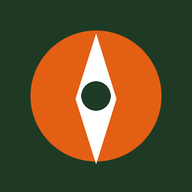
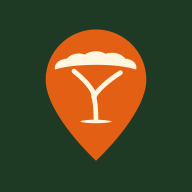
Rebrand the app as Reba
- New name "Reba" (Kinyarwanda for "look!") with "Akagera" as descriptor
- New logo: orange map pin with an acacia cut-out; icons, favicon, share image
- Splash screen (Murakaza neza), two-line header, brand colour tokens
- Levels: Newcomer, Spotter, Tracker, Ranger, Head Ranger
- Gerayo amahoro on arrival; Reba! on nearby sightings
- Open Graph tags for invite link previews
- Unofficial / not affiliated notice in Settings, README and share image

Claude-Session: https://claude.ai/code/session_01EEQYwibPE2FKtUMdtegsvq

Changed region(s): [[0.1562, 0.125, 0.8438, 0.8438]]

diff --git a/app.js b/app.js
@@ -1,4 +1,4 @@
-/* Akagera Live: sightings, road conditions and GPS navigation for Akagera National Park.
+/* Reba: sightings, road conditions and GPS navigation for Akagera National Park.
    Map data: OpenStreetMap contributors (ODbL) and the park entrance board. Weather: Open-Meteo. */
 "use strict";
 
@@ -1361,7 +1361,7 @@ function navUpdate(){
   const wb=$('navWarn');if(w){wb.hidden=false;wb.textContent=`${RD[w.r.type][2]} ${RD[w.r.type][1]} in ${fmtD(w.ahead)}`;if(!N.spoken['w'+w.r.id]&&w.ahead<600){N.spoken['w'+w.r.id]=1;say(`Caution. ${RD[w.r.type][1]} reported ahead.`);}}else wb.hidden=true;
   // voice prompts
   const key=R.instr.indexOf(next);
-  if(next.type==='arrive'){if(dist<30&&!N.spoken.arr){N.spoken.arr=1;say(`You have arrived at ${R.destName}.`);setTimeout(()=>{endNav(true);toast(`Arrived at ${R.destName}.`);},4000);}}
+  if(next.type==='arrive'){if(dist<30&&!N.spoken.arr){N.spoken.arr=1;say(`You have arrived at ${R.destName}.`);setTimeout(()=>{endNav(true);toast(`Arrived at ${R.destName}. Gerayo amahoro! 🌿`,null,null,6000);},4000);}}
   else if(next.type!=='waypoint'){const t=instrText(next);
     if(dist<600&&dist>250&&!N.spoken[key+'f']){N.spoken[key+'f']=1;say(`In ${fmtD(Math.round(dist/50)*50)}, ${t.toLowerCase()}.`);}
     if(dist<=90&&!N.spoken[key+'n']){N.spoken[key+'n']=1;say(t+'.');}}
@@ -1990,8 +1990,8 @@ async function shareOrCopy(data){
 function shareInvite(code){if(code)return openInvite(code);return shareInviteOld(null);}
 function shareInviteOld(code){
   const url=code?`${appURL()}?join=${code}`:`${appURL()}?board=1`;
-  const text=code?`Join my Akagera Live leaderboard "${groupName(code)}" 🏆 Open the link, or enter code ${code} under Animals → Board.`:`Join the Akagera Live leaderboard 🏆 Spot, report and verify animals in Akagera National Park and climb the board.`;
-  shareOrCopy({title:'Akagera Live leaderboard',text,url});
+  const text=code?`Join my Reba leaderboard "${groupName(code)}" 🏆 Open the link, or enter code ${code} under Animals → Board.`:`Join the Reba leaderboard 🏆 Spot, report and verify animals in Akagera National Park and climb the board.`;
+  shareOrCopy({title:'Reba leaderboard',text,url});
 }
 /* score card image, shared as a picture */
 function drawScoreCard(){
@@ -2005,7 +2005,7 @@ function drawScoreCard(){
   // shrink the font until the line fits the card
   const T=(t,x,y,font,col,al='center')=>{let f=font.replace(/Barlow,sans-serif|Barlow,.*$/,TX);g.font=f;let px=+(/(\d+)px/.exec(f)||[0,40])[1];
     while(g.measureText(t).width>980&&px>18){px-=2;f=f.replace(/\d+px/,px+'px');g.font=f;}g.fillStyle=col;g.textAlign=al;g.textBaseline='alphabetic';g.fillText(t,x,y);};
-  T('AKAGERA LIVE',540,110,'700 44px Barlow,sans-serif','#F7C75A');T('Safari leaderboard',540,160,'500 34px Barlow,sans-serif','rgba(255,255,255,.75)');
+  T('REBA',540,110,'700 52px Barlow,sans-serif','#F7C75A');T('Akagera safari leaderboard',540,160,'500 34px Barlow,sans-serif','rgba(255,255,255,.75)');
   T(me.emoji,540,330,`150px ${EM}`,'#fff');T(me.name,540,430,'800 72px Barlow,sans-serif','#fff');T(sc.lv[1].toUpperCase(),540,490,'700 38px Barlow,sans-serif','#9FD3A9');
   T(String(st.pts),540,660,'800 190px Barlow,sans-serif','#F7C75A');T('points',540,720,'600 44px Barlow,sans-serif','rgba(255,255,255,.85)');
   const lines=[];if(park&&park.week)lines.push(`#${park.rank} this week on the park board`);if(grp&&grp.week)lines.push(`#${grp.rank} this week in ${groupName(LB.scope)}`);
@@ -2020,13 +2020,13 @@ function drawScoreCard(){
 }
 function openScoreCard(){
   const c=drawScoreCard();const img=el('img',{class:'scoreimg',alt:'Your score card',src:c.toDataURL('image/png')});
-  let file=null;c.toBlob(b=>{if(b)file=new File([b],'akagera-score.png',{type:'image/png'});},'image/png');
+  let file=null;c.toBlob(b=>{if(b)file=new File([b],'reba-score.png',{type:'image/png'});},'image/png');
   const st=myStats(),park=LB.joined?lbSorted('park','week').find(r=>r.me):null;
-  const text=`🦁 ${st.pts} points on Akagera Live${park&&park.week?`, #${park.rank} on the park board this week`:''}. ${st.n} animals ticked, ${st.ver} sightings verified. Can you beat me?`;
+  const text=`🦁 ${st.pts} points on Reba${park&&park.week?`, #${park.rank} on the park board this week`:''}. ${st.n} animals ticked, ${st.ver} sightings verified. Can you beat me?`;
   const url=LB.scope!=='park'?`${appURL()}?join=${LB.scope}`:`${appURL()}?board=1`;
   openSheet('Share my score',[img,
-    el('button',{class:'primary green',type:'button',onclick:async()=>{try{if(file&&navigator.canShare&&navigator.canShare({files:[file]})){await navigator.share({files:[file],text:text+' '+url,title:'Akagera Live'});return;}}catch(e){if(e&&e.name==='AbortError')return;}shareOrCopy({title:'Akagera Live',text,url});},text:'📣 Share picture'}),
-    el('button',{class:'secondary',type:'button',onclick:()=>shareOrCopy({title:'Akagera Live',text,url}),text:'Share as text'}),
+    el('button',{class:'primary green',type:'button',onclick:async()=>{try{if(file&&navigator.canShare&&navigator.canShare({files:[file]})){await navigator.share({files:[file],text:text+' '+url,title:'Reba · Akagera'});return;}}catch(e){if(e&&e.name==='AbortError')return;}shareOrCopy({title:'Reba · Akagera',text,url});},text:'📣 Share picture'}),
+    el('button',{class:'secondary',type:'button',onclick:()=>shareOrCopy({title:'Reba · Akagera',text,url}),text:'Share as text'}),
     el('a',{class:'secondary',href:img.src,download:'akagera-score.png',text:'Save picture'}),
     el('button',{class:'secondary',type:'button',onclick:()=>openBoard(),text:'Back to the board'})],{view:'scorecard'});
 }
@@ -2090,7 +2090,7 @@ async function downloadOffline(){
   const say_=t=>{const p=$('offProg');if(p)p.textContent=t;};
   try{if(navigator.storage&&navigator.storage.persist)await navigator.storage.persist();}catch(e){}
   say_('Getting ready…');
-  const core=['./','index.html','app.css','app.js','config.js','species.js','emergency.js','manifest.webmanifest','data/board.json','data/osm.json','data/official.json','icons/icon-192.png','icons/icon-512.png','lib/qrcode.js'];
+  const core=['./','index.html','app.css','app.js','config.js','species.js','emergency.js','manifest.webmanifest','data/board.json','data/osm.json','data/official.json','icons/icon-192.png','icons/icon-512.png','icons/apple-touch-icon.png','icons/favicon.svg','lib/qrcode.js'];
   const off=[];try{const j=await getJSON('data/official/index.json');off.push('data/official/park-map-2020.webp');for(const z in j.tiles)for(const [x,y] of j.tiles[z])off.push(`data/official/${z}/${x}/${y}.webp`);}catch(e){}
   say_('Finding animal photos…');await loadPhotos();
   const jobs=[...core.map(u=>[u,{cache:'no-cache'}]),...off.map(u=>[u,{}]),...Object.values(PH.url).map(u=>[u,{mode:'no-cors'}])];
@@ -2408,7 +2408,7 @@ function inviteURL(code){return `${appURL()}?join=${code}`;}
 function openInvite(code,fresh){
   const url=inviteURL(code),name=grName(code);const qr=el('div',{class:'qrbox','aria-label':'QR code with the invite link'});
   loadQR().then(()=>{const q=window.qrcode(0,'M');q.addData(url);q.make();qr.innerHTML=q.createSvgTag({cellSize:5,margin:2,scalable:true});}).catch(()=>{qr.hidden=true;});
-  const text=`Join my group "${name}" in Akagera Live 🦒 for our group chat, sightings and leaderboard. Open the link, or enter the code ${fmtCode(code)} under Chat → Groups.`;
+  const text=`Join my group "${name}" in Reba 🦒 for our group chat, sightings and leaderboard. Open the link, or enter the code ${fmtCode(code)} under Chat → Groups.`;
   openSheet(fresh?`${name} is ready`:`Invite to ${name}`,[
     fresh?el('p',{class:'hint',text:'Now invite people. Anyone with the link, code or QR code can join.'}):null,
     el('button',{class:'primary green',type:'button',onclick:()=>shareOrCopy({title:`Join ${name}`,text,url}),text:'📤 Send the invite (WhatsApp, SMS…)'}),
@@ -2636,7 +2636,7 @@ function checkNear(force){
   const {r,d,q}=best,where=relWord(g,q[0],q[1]),nv=verList(r).length;
   const c=$('nearCard');if(!$('sheet').hidden){c.hidden=true;return;}   // back when the sheet closes
   c.replaceChildren(el('button',{type:'button',class:'nc-main',onclick:()=>openReportView(r)},pic(r.type,48),
-      el('span',null,el('b',{text:`${label(r)} ${fmtD(d)} ${where}`}),el('small',{text:`Seen ${ago(r.lastSeen)}${nv?` · ✅ ${nv} verified`:' · not verified yet'}${r.example?' · example':''}`}))),
+      el('span',null,el('b',{text:`${label(r)} ${fmtD(d)} ${where}`}),el('small',{text:`Reba! Seen ${ago(r.lastSeen)}${nv?` · ✅ ${nv} verified`:' · not verified yet'}${r.example?' · example':''}`}))),
     el('div',{class:'nc-acts'},el('button',{type:'button',class:'ok',onclick:()=>verifySighting(r),text:'✅ I see it'}),el('button',{type:'button',class:'no',onclick:()=>goneHere(r),text:'Not here'}),el('button',{type:'button',class:'x','aria-label':'Dismiss',onclick:()=>nearDone(r.id),text:'×'})));
   const host=c.parentElement.getBoundingClientRect();
   if(S.nav){   // while driving: under the turn instruction, so the car and the road ahead stay visible
@@ -2656,7 +2656,8 @@ function openSettings(){
     el('button',{class:'secondary',type:'button',onclick:()=>{closeSheet();if(S.sim){stopSim();toast('Demo drive stopped.');}else{if(!S.route){toast('Pick a destination with Go first.');return;}startNav();startSim();}},text:S.sim?'Stop demo drive':'Demo drive along the planned route'}),
     el('button',{class:'secondary',type:'button',onclick:()=>{closeSheet();startPick('me');},text:'Set my position by hand'}),
     el('button',{class:'secondary',type:'button',onclick:()=>{S.set.hideEx=!S.set.hideEx;saveSet();closeSheet();redraw();},text:S.set.hideEx?'Show example reports':'Hide example reports'}),
-    el('p',{class:'lbl',text:'Support the app'}),el('p',{class:'fine',text:'Akagera Live is free. If it helped your game drive, you can say thanks with a coffee.'}),coffeeLink(),
+    el('p',{class:'lbl',text:'Support the app'}),el('p',{class:'fine',text:'Reba is free. If it helped your game drive, you can say thanks with a coffee.'}),coffeeLink(),
+    el('p',{class:'lbl',text:'About Reba'}),el('p',{class:'fine',text:'Reba is an unofficial community guide to Akagera National Park, made by a visitor. It is not run by or affiliated with African Parks or the Rwanda Development Board. Follow the park rules and the guidance of rangers.'}),
     el('p',{class:'lbl',text:'About the data'}),
     el('p',{class:'fine',text:`Sharing: ${cfg&&cfg.apiKey?'Firebase project '+cfg.projectId+' ('+S.sync+')':'not set up yet, so reports stay on this phone.'}`}),
     el('p',{class:'fine',text:S.layers.osm?`Roads and lakes: OpenStreetMap contributors, updated ${S.osm.meta.generated}.`:'Roads: traced from the park entrance board (detailed OpenStreetMap roads not loaded yet).'}),

diff --git a/index.html b/index.html
@@ -6,23 +6,36 @@
 <meta name="theme-color" content="#1E3A24">
 <meta name="apple-mobile-web-app-capable" content="yes">
 <meta name="apple-mobile-web-app-status-bar-style" content="black-translucent">
-<meta name="description" content="Live animal sightings, road conditions and GPS navigation for Akagera National Park, Rwanda.">
-<title>Akagera Live</title>
+<meta name="description" content="Reba: live animal sightings, road conditions, trip planning and GPS navigation for Akagera National Park, Rwanda. Unofficial community guide.">
+<meta property="og:type" content="website">
+<meta property="og:site_name" content="Reba">
+<meta property="og:title" content="Reba · Akagera game drive companion">
+<meta property="og:description" content="Live animal sightings, road conditions and trip planning, shared by drivers in the park.">
+<meta property="og:url" content="https://ebazine.github.io/akagera-live/">
+<meta property="og:image" content="https://ebazine.github.io/akagera-live/icons/og.png">
+<meta property="og:image:width" content="1200">
+<meta property="og:image:height" content="630">
+<meta name="twitter:card" content="summary_large_image">
+<meta name="apple-mobile-web-app-title" content="Reba">
+<title>Reba · Akagera</title>
 <link rel="manifest" href="manifest.webmanifest">
-<link rel="icon" href="icons/icon-192.png">
-<link rel="apple-touch-icon" href="icons/icon-192.png">
+<link rel="icon" type="image/svg+xml" href="icons/favicon.svg">
+<link rel="icon" type="image/png" href="icons/icon-192.png">
+<link rel="apple-touch-icon" href="icons/apple-touch-icon.png">
 <link rel="preconnect" href="https://fonts.googleapis.com">
 <link rel="preconnect" href="https://fonts.gstatic.com" crossorigin>
 <link href="https://fonts.googleapis.com/css2?family=Barlow:wght@400;500;600;700&family=Barlow+Condensed:wght@600;700&display=swap" rel="stylesheet">
 <link rel="stylesheet" href="app.css">
 </head>
 <body>
+<div id="splash" aria-hidden="true"><svg class="mk" width="96" height="105" viewBox="96 80 320 350" aria-hidden="true"><path d="M256 424C256 424 128 306 128 218a128 128 0 1 1 256 0c0 88-128 206-128 206z" fill="#E35F14"/><path fill="#FFF6E0" d="M152 192c-4-14 10-26 30-28 10-12 30-16 46-10 12-10 38-12 52-2 16-6 40-2 50 12 20 2 32 14 28 28-26-8-60-12-100-12-44 0-82 4-106 12z"/><g fill="none" stroke="#FFF6E0" stroke-width="12" stroke-linecap="round" stroke-linejoin="round"><path d="M256 322c0-28-2-52-8-74"/><path d="M248 248c-10-18-26-34-48-52"/><path d="M250 262c12-20 34-40 68-62"/></g><path d="M214 324c16-6 60-6 84 0-14 6-70 6-84 0z" fill="#FFF6E0"/></svg><b>Reba</b><span>Murakaza neza</span><small>Akagera game drive companion</small></div>
+<script>try{if(sessionStorage.getItem("rebaSplash"))document.getElementById("splash").remove();else sessionStorage.setItem("rebaSplash","1");}catch(e){}</script>
 <div id="app">
   <!-- ===== browse header ===== -->
   <header class="top" id="top">
     <div class="brand">
-      <svg width="32" height="32" viewBox="0 0 34 34" aria-hidden="true"><circle cx="17" cy="17" r="16" fill="#E35F14"/><path d="M17 6l3.2 9.2L17 28l-3.2-12.8z" fill="#fff"/><circle cx="17" cy="17" r="2.4" fill="#1E3A24"/></svg>
-      <b>Akagera Live</b>
+      <svg class="mk" width="28" height="31" viewBox="96 80 320 350" aria-hidden="true"><path d="M256 424C256 424 128 306 128 218a128 128 0 1 1 256 0c0 88-128 206-128 206z" fill="#E35F14"/><path fill="#FFF6E0" d="M152 192c-4-14 10-26 30-28 10-12 30-16 46-10 12-10 38-12 52-2 16-6 40-2 50 12 20 2 32 14 28 28-26-8-60-12-100-12-44 0-82 4-106 12z"/><g fill="none" stroke="#FFF6E0" stroke-width="12" stroke-linecap="round" stroke-linejoin="round"><path d="M256 322c0-28-2-52-8-74"/><path d="M248 248c-10-18-26-34-48-52"/><path d="M250 262c12-20 34-40 68-62"/></g><path d="M214 324c16-6 60-6 84 0-14 6-70 6-84 0z" fill="#FFF6E0"/></svg>
+      <div class="bn"><b>Reba</b><small>Akagera</small></div>
     </div>
     <div class="stat">
       <button class="pill" id="wxPill" type="button" aria-label="Weather and road outlook"><span class="wxi" aria-hidden="true">☁</span><span id="wxText">…</span></button>

diff --git a/app.css b/app.css
@@ -452,3 +452,17 @@ a.secondary{display:flex;align-items:center;justify-content:center;text-decorati
 .coffee{display:flex;align-items:center;justify-content:center;gap:8px;min-height:48px;padding:0 16px;border-radius:14px;background:#FFDD00;color:#1b1b1b;font-weight:700;text-decoration:none;border:1px solid rgba(0,0,0,.12)}
 .coffee.small{min-height:40px;font-size:14px}
 .coffee:active{filter:brightness(.95)}
+
+/* ---- Reba brand ---- */
+:root{--laterite:#E35F14;--savanna:#F2B544;--lake:#2369B0;--paper:#F6F2E7}
+.brand{gap:9px}.brand .bn{display:flex;flex-direction:column;line-height:1;min-width:0}
+.brand .bn b{font-size:25px;letter-spacing:.015em}
+.brand .bn small{font-family:var(--f-display);font-weight:600;font-size:11.5px;letter-spacing:.2em;text-transform:uppercase;color:var(--savanna);margin-top:2px}
+#splash{position:fixed;inset:0;z-index:99999;background:linear-gradient(160deg,#24452C,#14301C);display:flex;flex-direction:column;align-items:center;justify-content:center;gap:6px;color:#fff;animation:splashOut .5s ease 1.5s forwards}
+#splash svg{margin-bottom:6px;animation:splashPop .6s ease both}
+#splash b{font-family:var(--f-display);font-size:64px;line-height:1;letter-spacing:.02em}
+#splash span{font-family:var(--f-display);font-size:22px;letter-spacing:.14em;text-transform:uppercase;color:var(--savanna);margin-top:6px}
+#splash small{font-size:14px;color:rgba(255,255,255,.7);margin-top:2px}
+@keyframes splashOut{to{opacity:0;visibility:hidden}}
+@keyframes splashPop{from{transform:translateY(10px) scale(.9);opacity:0}to{transform:none;opacity:1}}
+@media (prefers-reduced-motion:reduce){#splash,#splash svg{animation-duration:.01s}#splash{animation-delay:.9s}}

diff --git a/sw.js b/sw.js
@@ -3,8 +3,8 @@
    - Own files: network first, but after 3 s of weak signal the saved copy is used.
    - Map tiles, the official park map and animal photos: saved copy first.
    - Offline mode (switched on in the app): nothing goes to the network. */
-const VERSION = 'akl-v3.2.1';
-const CORE = ['./', 'index.html', 'app.css', 'app.js', 'config.js', 'species.js', 'emergency.js', 'manifest.webmanifest', 'data/board.json', 'data/osm.json', 'data/official.json', 'icons/icon-192.png', 'icons/icon-512.png', 'lib/qrcode.js'];
+const VERSION = 'akl-v3.3.0';
+const CORE = ['./', 'index.html', 'app.css', 'app.js', 'config.js', 'species.js', 'emergency.js', 'manifest.webmanifest', 'data/board.json', 'data/osm.json', 'data/official.json', 'icons/icon-192.png', 'icons/icon-512.png', 'icons/apple-touch-icon.png', 'icons/favicon.svg', 'lib/qrcode.js'];
 const FLAG = new URL('__akl_offline', self.registration.scope).href;
 const WAIT_MS = 3000;
 

diff --git a/species.js b/species.js
@@ -222,7 +222,7 @@ window.BADGES = [
  {id:'night',name:'Night shift',icon:'🌙',need:[['hyena'],['serval','jackal','leopard']],bonus:30,text:'Hyena plus a serval, jackal or leopard'},
  {id:'rare',name:'Rare finds',icon:'💎',need:[['roan','sitatunga','klipspringer','gonolek']],bonus:30,text:'Roan, sitatunga, klipspringer or papyrus gonolek'}
 ];
-window.LEVELS = [[0,'Rookie'],[60,'Spotter'],[160,'Tracker'],[320,'Ranger'],[520,'Akagera Legend']];
+window.LEVELS = [[0,'Newcomer'],[60,'Spotter'],[160,'Tracker'],[320,'Ranger'],[520,'Head Ranger']];
 
 window.PARK_RULES = [
  'Stay inside your vehicle except at lodges, campsites, picnic spots and Hippo Beach.',

diff --git a/README.md b/README.md
@@ -1,4 +1,6 @@
-# Akagera Live
+# Reba · Akagera
+
+*Reba* means "look!" in Kinyarwanda. An unofficial community guide to Akagera National Park (not run by or affiliated with African Parks or the Rwanda Development Board).
 
 Live animal sightings, road conditions and GPS turn-by-turn navigation for Akagera National Park, Rwanda.
 Open it on a phone at **https://ebazine.github.io/akagera-live/** and use *Add to Home screen* so it works like an app.
@@ -24,7 +26,7 @@ Open it on a phone at **https://ebazine.github.io/akagera-live/** and use *Add t
 - **Map layers.** The layers button on the right shows or hides sightings, road reports, junction stones, lodges and camps, gates and ranger posts, names, closed tracks, rivers and wetlands, and example reports, with *Clean*, *Animals only* and *Everything* presets.
 - **Routes avoid trouble.** Impassable reports block the road for routing, 4x4-only and caution reports weigh it down, and after heavy rain the router prefers main roads over tracks.
 - **Animal guide.** 34 animals of Akagera with photos, where to find them, and what to do next to your car: warning signs, do's and never's, plus 10 rules for driving among animals.
-- **Score sheet.** Every animal you report is ticked off. Points by rarity, badges (Big Five, Rhino double, Lake life, Antelope ace and more) and levels from Rookie to Akagera Legend.
+- **Score sheet.** Every animal you report is ticked off. Points by rarity, badges (Big Five, Rhino double, Lake life, Antelope ace and more) and levels from Newcomer to Head Ranger.
 - **Works offline.** The app, map data and your reports are cached on the phone. Reports queue and send when you are back in coverage.
 
 ## Data
